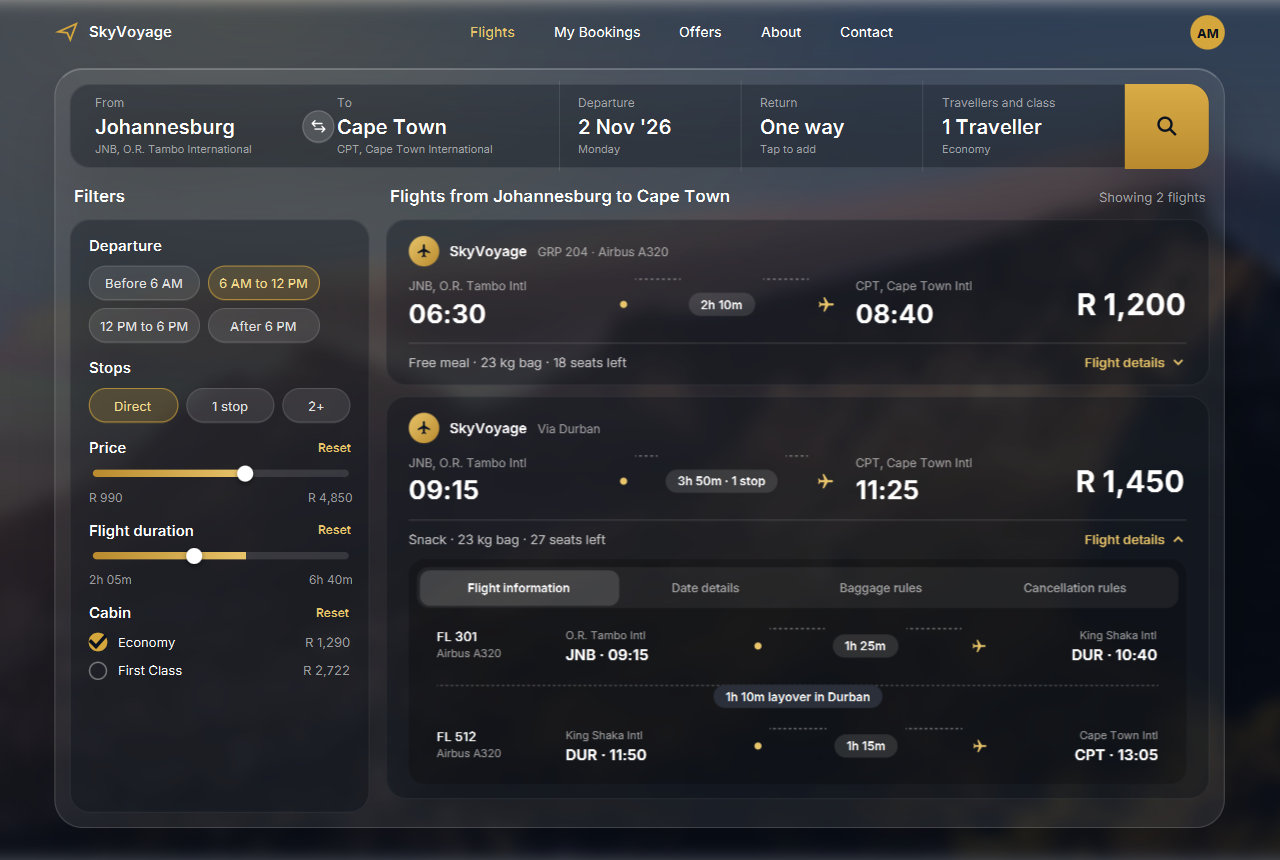
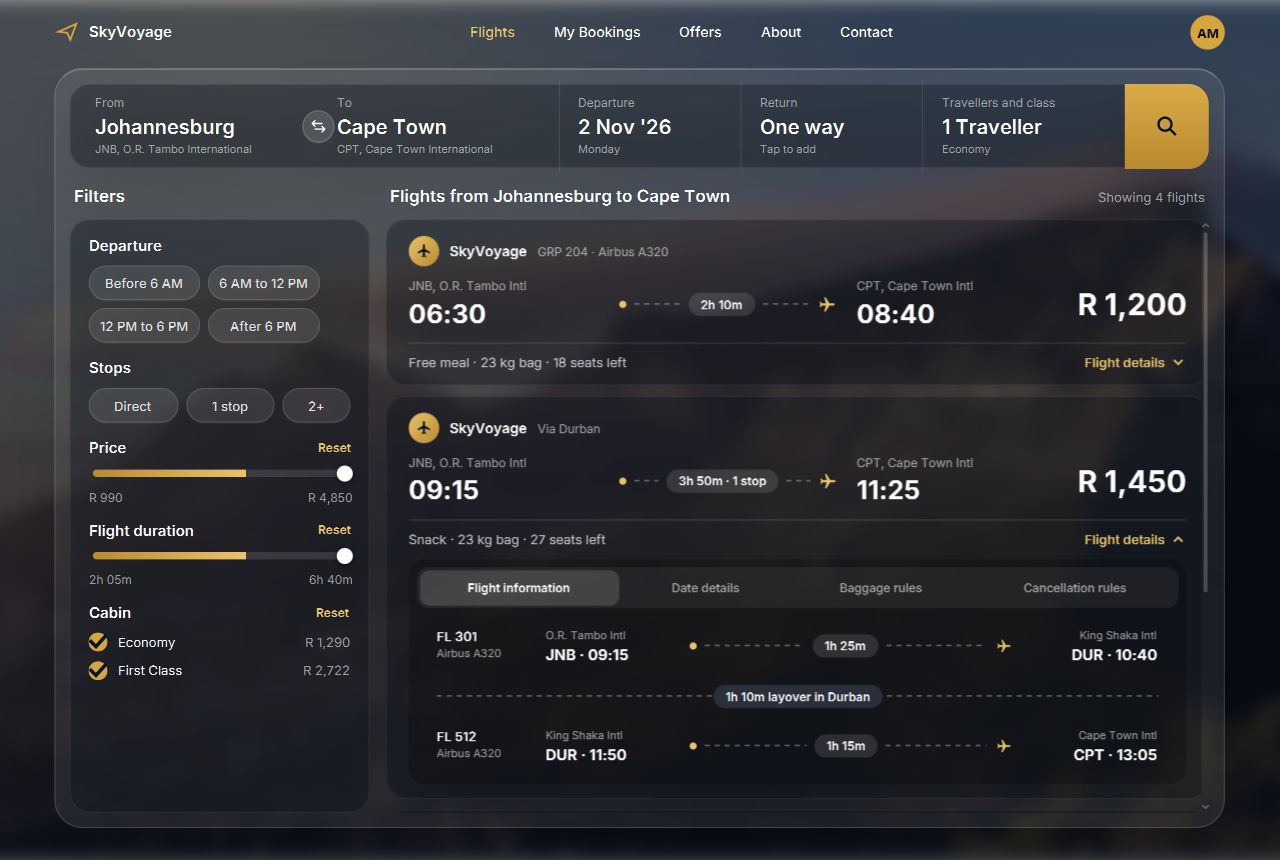
fix: flight search nav regression, default filters

diff --git a/desktop/src/main/resources/com/group2/flightres/css/glass.css b/desktop/src/main/resources/com/group2/flightres/css/glass.css
@@ -897,6 +897,15 @@
     -fx-alignment: center;
 }
 
+.flight-path-line {
+    -fx-border-color: rgba(255, 255, 255, 0.35) transparent transparent transparent;
+    -fx-border-style: segments(5, 5);
+    -fx-border-width: 1.5px 0 0 0;
+    -fx-min-height: 2px;
+    -fx-pref-height: 2px;
+    -fx-max-height: 2px;
+}
+
 .flight-path-dot {
     -fx-background-color: #e8c46a;
     -fx-background-radius: 50%;

diff --git a/desktop/src/main/java/com/group2/flightres/util/GlassFlightResultsBridge.java b/desktop/src/main/java/com/group2/flightres/util/GlassFlightResultsBridge.java
@@ -51,13 +51,13 @@ public class GlassFlightResultsBridge extends TableView<FlightSearchResult> {
     private Label depDateLabel;
     private Label depDayLabel;
 
-    // Interactive filter state
-    private String selectedDepartureFilter = "6 AM to 12 PM"; // default per mockup
-    private String selectedStopsFilter = "Direct";            // default per mockup
+    // Interactive filter state - default NO filter active
+    private String selectedDepartureFilter = null;
+    private String selectedStopsFilter = null;
     private double maxPriceFilter = 4850.0;
     private double maxDurationMinutes = 400.0; // 6h 40m
     private boolean economySelected = true;
-    private boolean firstClassSelected = false;
+    private boolean firstClassSelected = true;
     private Long expandedFlightId = 2L; // expand 2nd card by default matching mockup
     private String activeDetailsTab = "Flight information";
 
@@ -79,8 +79,10 @@ public class GlassFlightResultsBridge extends TableView<FlightSearchResult> {
         itemsProperty().addListener((obs, oldItems, newItems) -> {
             if (newItems != null) {
                 newItems.addListener((ListChangeListener<FlightSearchResult>) change -> {
+                    resetFiltersToDefault();
                     Platform.runLater(this::refreshCardsView);
                 });
+                resetFiltersToDefault();
                 Platform.runLater(this::refreshCardsView);
             }
         });
@@ -302,9 +304,22 @@ public class GlassFlightResultsBridge extends TableView<FlightSearchResult> {
 
     public void resetCabinFilter() {
         this.economySelected = true;
-        this.firstClassSelected = false;
+        this.firstClassSelected = true;
         updateCheckStyles();
         refreshCardsView();
+    }
+
+    public void resetFiltersToDefault() {
+        this.selectedDepartureFilter = null;
+        this.selectedStopsFilter = null;
+        this.maxPriceFilter = 4850.0;
+        this.maxDurationMinutes = 400.0;
+        this.economySelected = true;
+        this.firstClassSelected = true;
+        if (priceSlider != null) priceSlider.setValue(4850.0);
+        if (durationSlider != null) durationSlider.setValue(400.0);
+        updatePillStyles();
+        updateCheckStyles();
     }
 
     private void updatePillStyles() {
@@ -382,16 +397,20 @@ public class GlassFlightResultsBridge extends TableView<FlightSearchResult> {
             filtered.add(flight);
         }
 
-        // If in-memory filters filtered out everything, fall back gracefully to all flights or show count
-        int count = filtered.isEmpty() ? allFlights.size() : filtered.size();
-        List<FlightSearchResult> flightsToRender = filtered.isEmpty() ? allFlights : filtered;
-
+        int count = filtered.size();
         if (resultsCounterLabel != null) {
             resultsCounterLabel.setText("Showing " + count + " flights");
         }
 
+        if (filtered.isEmpty()) {
+            Label noMatch = new Label("No flights match the selected filters.");
+            noMatch.setStyle("-fx-font-family: 'Inter'; -fx-font-size: 14px; -fx-text-fill: rgba(255,255,255,0.58); -fx-padding: 30px;");
+            cardsContainer.getChildren().add(noMatch);
+            return;
+        }
+
         int index = 0;
-        for (FlightSearchResult flight : flightsToRender) {
+        for (FlightSearchResult flight : filtered) {
             boolean isExpanded = flight.getFlightId() != null && flight.getFlightId().equals(expandedFlightId);
             Node cardNode = buildFlightResultCard(flight, index, isExpanded);
             cardsContainer.getChildren().add(cardNode);
@@ -488,6 +507,8 @@ public class GlassFlightResultsBridge extends TableView<FlightSearchResult> {
         HBox pathRow = new HBox(20);
         pathRow.setAlignment(Pos.CENTER_LEFT);
         pathRow.setPadding(new Insets(12, 0, 0, 0));
+        pathRow.setMaxWidth(Double.MAX_VALUE);
+        HBox.setHgrow(pathRow, Priority.ALWAYS);
 
         // Origin Block (width 190)
         VBox originBlock = new VBox(3);
@@ -503,22 +524,29 @@ public class GlassFlightResultsBridge extends TableView<FlightSearchResult> {
         // Center flight path graphic (flex-grow)
         HBox flightPath = new HBox(8);
         flightPath.setAlignment(Pos.CENTER);
+        flightPath.setMaxWidth(Double.MAX_VALUE);
+        flightPath.setPrefWidth(220);
         HBox.setHgrow(flightPath, Priority.ALWAYS);
 
         Region dot = new Region();
         dot.getStyleClass().add("flight-path-dot");
 
         Region dashLine1 = new Region();
-        dashLine1.setStyle("-fx-border-color: rgba(255,255,255,0.35) transparent transparent transparent; -fx-border-style: dashed; -fx-border-width: 1.5px 0 0 0; -fx-min-height: 2px;");
+        dashLine1.getStyleClass().add("flight-path-line");
+        dashLine1.setMinWidth(10);
+        dashLine1.setPrefWidth(60);
         dashLine1.setMaxWidth(Double.MAX_VALUE);
         HBox.setHgrow(dashLine1, Priority.ALWAYS);
 
         String durText = (index == 1) ? "3h 50m · 1 stop" : flight.getDuration();
         Label durLabel = new Label(durText);
         durLabel.getStyleClass().add("flight-duration-pill");
+        durLabel.setMinWidth(Region.USE_PREF_SIZE);
 
         Region dashLine2 = new Region();
-        dashLine2.setStyle("-fx-border-color: rgba(255,255,255,0.35) transparent transparent transparent; -fx-border-style: dashed; -fx-border-width: 1.5px 0 0 0; -fx-min-height: 2px;");
+        dashLine2.getStyleClass().add("flight-path-line");
+        dashLine2.setMinWidth(10);
+        dashLine2.setPrefWidth(60);
         dashLine2.setMaxWidth(Double.MAX_VALUE);
         HBox.setHgrow(dashLine2, Priority.ALWAYS);
 
@@ -652,8 +680,9 @@ public class GlassFlightResultsBridge extends TableView<FlightSearchResult> {
                 // Layover line
                 StackPane layoverLine = new StackPane();
                 layoverLine.setPadding(new Insets(6, 12, 6, 12));
+                layoverLine.setMaxWidth(Double.MAX_VALUE);
                 Region dash = new Region();
-                dash.setStyle("-fx-border-color: rgba(255,255,255,0.20) transparent transparent transparent; -fx-border-style: dashed; -fx-border-width: 1.5px 0 0 0; -fx-min-height: 2px;");
+                dash.getStyleClass().add("flight-path-line");
                 dash.setPrefWidth(Double.MAX_VALUE);
                 dash.setMaxWidth(Double.MAX_VALUE);
                 Label layoverPill = new Label("1h 10m layover in Durban");
@@ -702,7 +731,7 @@ public class GlassFlightResultsBridge extends TableView<FlightSearchResult> {
         row.setPadding(new Insets(8, 12, 8, 12));
 
         VBox flightBlock = new VBox(2);
-        flightBlock.setPrefWidth(110);
+        flightBlock.setPrefWidth(90);
         Label flLabel = new Label(flNo);
         flLabel.setStyle("-fx-font-family: 'Inter SemiBold'; -fx-font-size: 13px; -fx-font-weight: 600; -fx-text-fill: #ffffff;");
         Label planeLabel = new Label(plane);
@@ -710,7 +739,7 @@ public class GlassFlightResultsBridge extends TableView<FlightSearchResult> {
         flightBlock.getChildren().addAll(flLabel, planeLabel);
 
         VBox origBlock = new VBox(2);
-        origBlock.setPrefWidth(170);
+        origBlock.setPrefWidth(125);
         Label origAp = new Label(origAirport);
         origAp.setStyle("-fx-font-family: 'Inter'; -fx-font-size: 11px; -fx-text-fill: rgba(255,255,255,0.58);");
         Label origTm = new Label(origTime);
@@ -719,18 +748,25 @@ public class GlassFlightResultsBridge extends TableView<FlightSearchResult> {
 
         HBox path = new HBox(8);
         path.setAlignment(Pos.CENTER);
+        path.setMaxWidth(Double.MAX_VALUE);
+        path.setPrefWidth(220);
         HBox.setHgrow(path, Priority.ALWAYS);
 
         Region dot = new Region();
         dot.getStyleClass().add("flight-path-dot");
         Region dash1 = new Region();
-        dash1.setStyle("-fx-border-color: rgba(255,255,255,0.35) transparent transparent transparent; -fx-border-style: dashed; -fx-border-width: 1.5px 0 0 0; -fx-min-height: 2px;");
+        dash1.getStyleClass().add("flight-path-line");
+        dash1.setMinWidth(10);
+        dash1.setPrefWidth(60);
         dash1.setMaxWidth(Double.MAX_VALUE);
         HBox.setHgrow(dash1, Priority.ALWAYS);
         Label dur = new Label(duration);
         dur.getStyleClass().add("flight-duration-pill");
+        dur.setMinWidth(Region.USE_PREF_SIZE);
         Region dash2 = new Region();
-        dash2.setStyle("-fx-border-color: rgba(255,255,255,0.35) transparent transparent transparent; -fx-border-style: dashed; -fx-border-width: 1.5px 0 0 0; -fx-min-height: 2px;");
+        dash2.getStyleClass().add("flight-path-line");
+        dash2.setMinWidth(10);
+        dash2.setPrefWidth(60);
         dash2.setMaxWidth(Double.MAX_VALUE);
         HBox.setHgrow(dash2, Priority.ALWAYS);
         SVGPath planeIcon = new SVGPath();
@@ -739,7 +775,7 @@ public class GlassFlightResultsBridge extends TableView<FlightSearchResult> {
         path.getChildren().addAll(dot, dash1, dur, dash2, planeIcon);
 
         VBox destBlock = new VBox(2);
-        destBlock.setPrefWidth(150);
+        destBlock.setPrefWidth(125);
         destBlock.setAlignment(Pos.CENTER_RIGHT);
         Label destAp = new Label(destAirport);
         destAp.setStyle("-fx-font-family: 'Inter'; -fx-font-size: 11px; -fx-text-fill: rgba(255,255,255,0.58);");

diff --git a/desktop/src/main/java/com/group2/flightres/controller/FlightSearchController.java b/desktop/src/main/java/com/group2/flightres/controller/FlightSearchController.java
@@ -277,7 +277,7 @@ public class FlightSearchController implements WizardStepController {
 
     @FXML
     private void handleComingSoonOffers() {
-        showComingSoon("Special Offers", "Special offers aren't available yet.");
+        showComingSoon("Offers", "Offers aren't available yet.");
     }
 
     @FXML
@@ -293,6 +293,41 @@ public class FlightSearchController implements WizardStepController {
     @FXML
     private void handleComingSoonProfile() {
         showComingSoon("User Profile", "User profile management isn't available yet.");
+    }
+
+    @FXML
+    private void handleComingSoonMyBookings() {
+        showComingSoon("My Bookings", "My Bookings isn't available yet.");
+    }
+
+    @FXML
+    private void handleNavHome() {
+        navigateTo("/com/group2/flightres/fxml/home.fxml", "Home");
+    }
+
+    @FXML
+    private void handleNavFlights() {
+        performSearch();
+    }
+
+    @FXML
+    private void handleNavAbout() {
+        navigateTo("/com/group2/flightres/fxml/about.fxml", "About");
+    }
+
+    @FXML
+    private void handleNavContact() {
+        navigateTo("/com/group2/flightres/fxml/contact.fxml", "Contact");
+    }
+
+    @FXML
+    private void handleNavAvatar() {
+        if (bookingContext != null && bookingContext.getCurrentUser() != null) {
+            bookingContext.setCurrentUser(null);
+            navigateTo("/com/group2/flightres/fxml/home.fxml", "Home");
+        } else {
+            navigateTo("/com/group2/flightres/fxml/login.fxml", "Login / Sign Up");
+        }
     }
 
     @FXML
@@ -367,5 +402,56 @@ public class FlightSearchController implements WizardStepController {
         alert.setTitle("Coming soon");
         alert.setHeaderText(title);
         alert.showAndWait();
+    }
+
+    private void navigateTo(String fxmlPath, String screenName) {
+        javafx.scene.Scene scene = null;
+        if (searchButton != null && searchButton.getScene() != null) {
+            scene = searchButton.getScene();
+        } else if (fromCombo != null && fromCombo.getScene() != null) {
+            scene = fromCombo.getScene();
+        }
+        if (scene == null) return;
+
+        javafx.scene.layout.StackPane contentArea =
+                (javafx.scene.layout.StackPane) scene.lookup("#contentArea");
+        if (contentArea != null) {
+            try {
+                javafx.fxml.FXMLLoader loader = new javafx.fxml.FXMLLoader(getClass().getResource(fxmlPath));
+                javafx.scene.Node view = loader.load();
+                contentArea.getChildren().setAll(view);
+                com.group2.flightres.util.Motion.screenTransition(view);
+
+                javafx.scene.layout.VBox stepperWrapper =
+                        (javafx.scene.layout.VBox) scene.lookup("#stepperWrapper");
+                if (stepperWrapper != null) {
+                    stepperWrapper.setVisible(false);
+                    stepperWrapper.setManaged(false);
+                }
+
+                com.group2.flightres.component.NavBar nav =
+                        (com.group2.flightres.component.NavBar) scene.lookup("#navBar");
+                if (nav != null) {
+                    nav.setActiveLink(screenName);
+                }
+
+                Object ctrl = loader.getController();
+                if (ctrl instanceof WizardStepController wz) {
+                    wz.init(bookingContext, () -> navigateTo("/com/group2/flightres/fxml/home.fxml", "Home"));
+                }
+                return;
+            } catch (Exception e) {
+                logger.error("Failed to navigate to screen {} in contentArea", fxmlPath, e);
+            }
+        }
+
+        try {
+            javafx.fxml.FXMLLoader loader = new javafx.fxml.FXMLLoader(getClass().getResource(fxmlPath));
+            javafx.scene.Parent root = loader.load();
+            scene.setRoot(root);
+            com.group2.flightres.util.ThemeManager.getInstance().applyGlassTheme(scene);
+        } catch (Exception e) {
+            logger.error("Failed to navigate to screen {} as scene root", fxmlPath, e);
+        }
     }
 }
